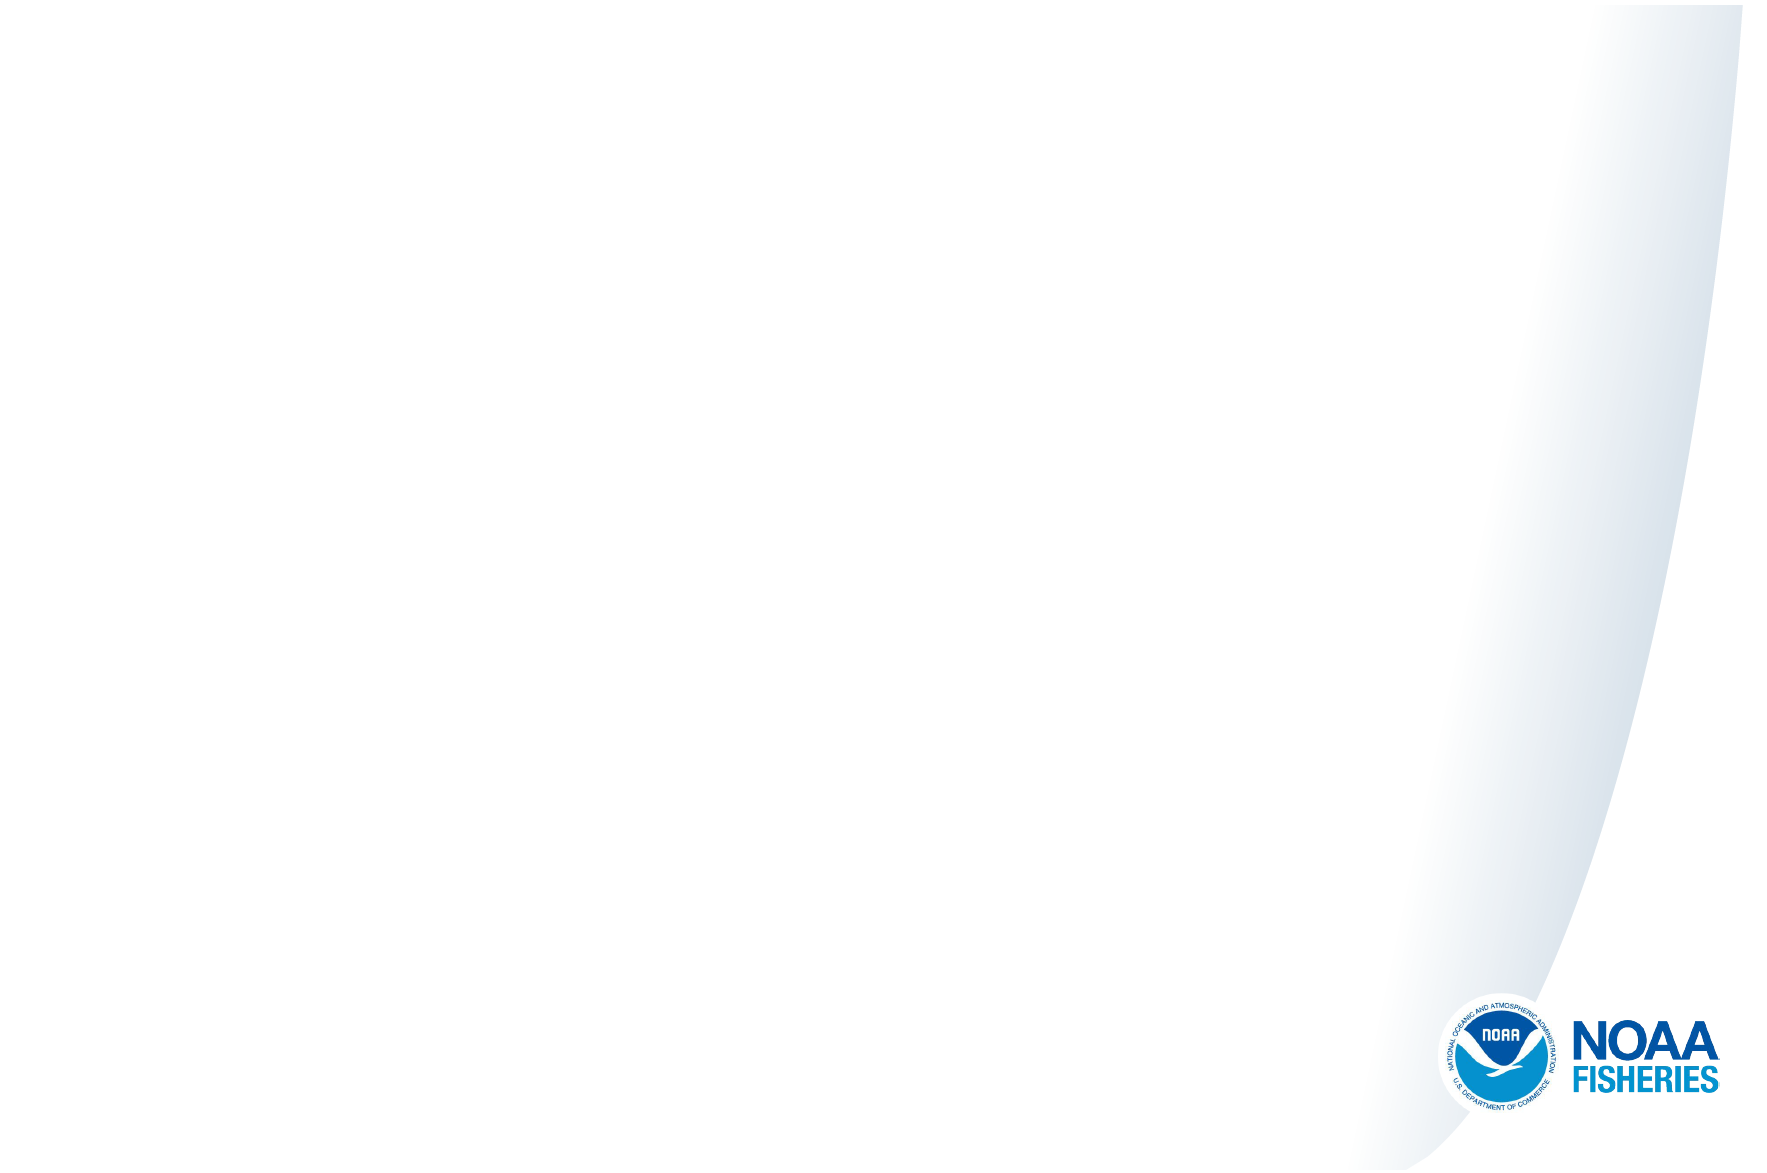
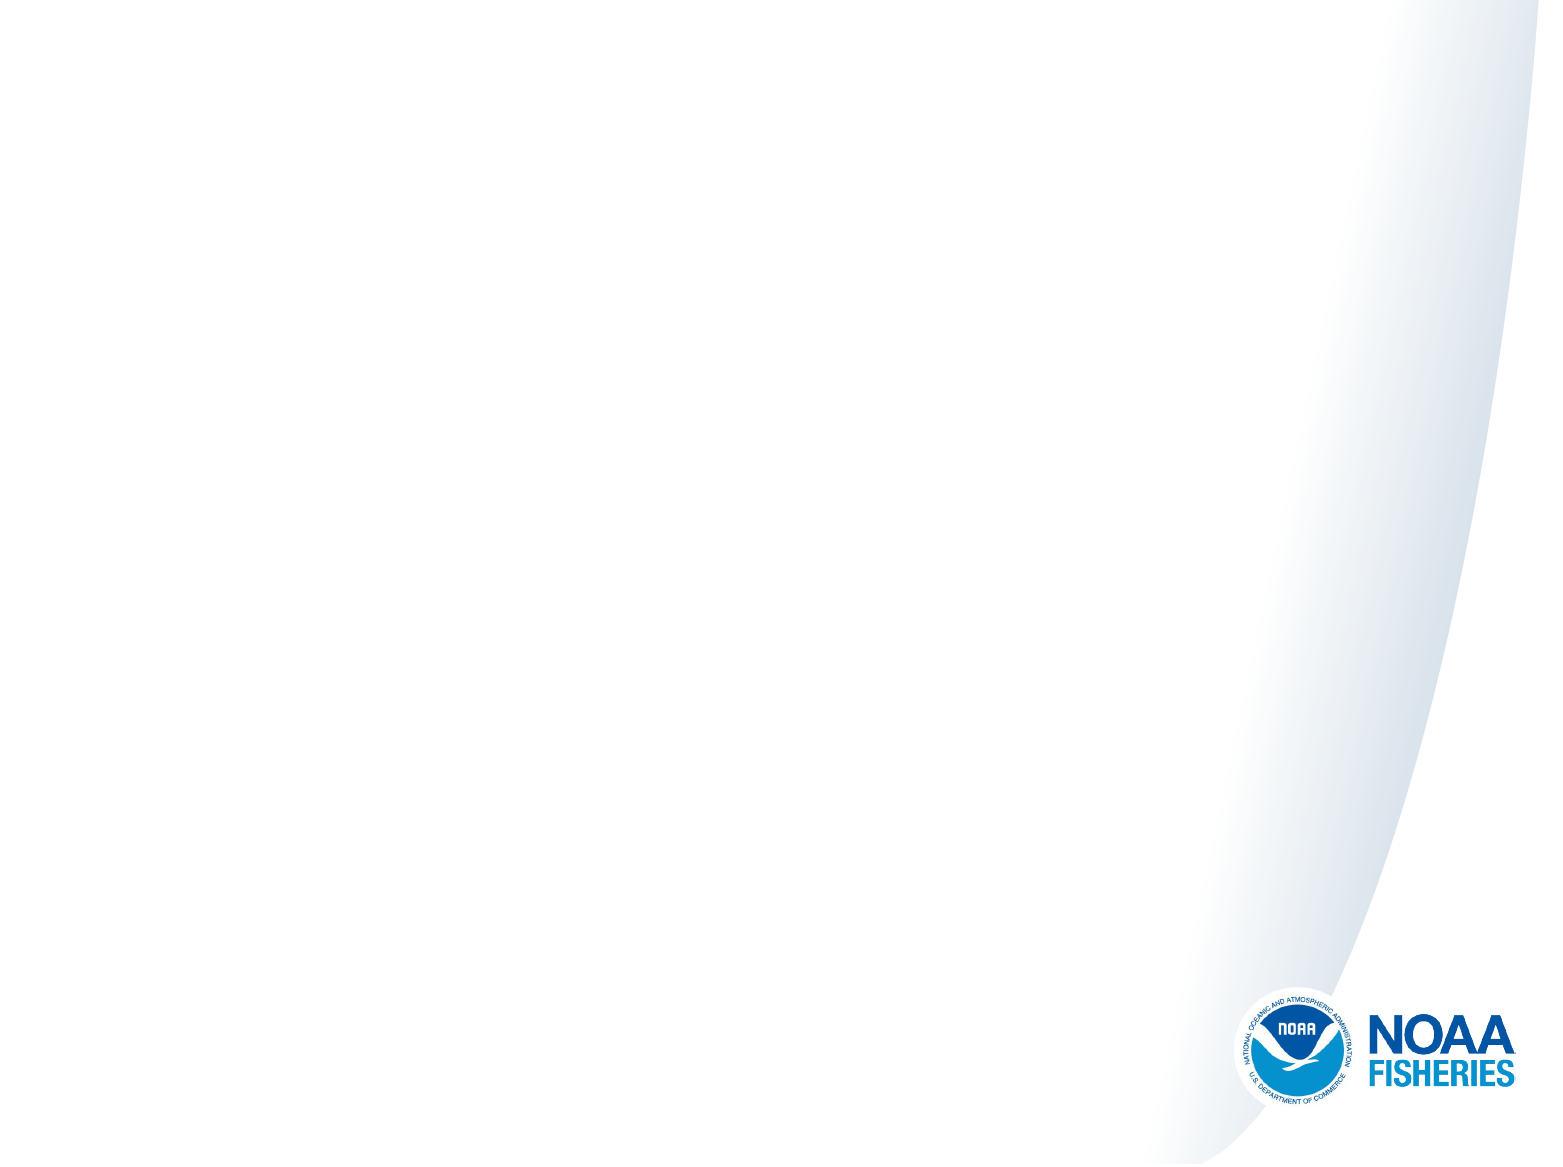
changed aspect ratio

Changed region(s): [[0.7985, 0.401, 0.9827, 0.9563], [0.952, 0.1542, 0.9827, 0.401]]

diff --git a/man/xaringan_template.html b/man/xaringan_template.html
@@ -44,7 +44,7 @@ r &lt;- 2 + 2
 ---
 class: middle
 background-image: url("static/slideteal.png")
-background-image-size: "940px 690px"
+background-image-size: "cover"
 
 # This is another background image you can use
 
@@ -62,6 +62,7 @@ The chakra comes from [remark.js](https://remarkjs.com), [**knitr**](https://yih
 <style data-target="print-only">@media screen {.remark-slide-container{display:block;}.remark-slide-scaler{box-shadow:none;}}</style>
 <script src="https://remarkjs.com/downloads/remark-latest.min.js"></script>
 <script>var slideshow = remark.create({
+"ratio": "4:3",
 "highlightStyle": "github",
 "highlightLines": true,
 "countIncrementalSlides": false,

diff --git a/man/xaringan-themer.css b/man/xaringan-themer.css
@@ -76,7 +76,7 @@ h1, h2, h3 {
   background-color: var(--background-color);
   font-size: 1rem;
   background-image: url(static/slideswoosh.PNG);
-  background-size: 930px 690px;
+  background-size: cover;
   padding: 16px 64px 16px 64px;
   width: 100%;
   height: 100%;
@@ -136,7 +136,7 @@ a, a > code {
 .title-slide {
   background-color: var(--title-slide-background-color);
   background-image: url("static/slideswooshver.png");
-  background-size: 930px 690px;
+  background-size: cover;
 }
 .title-slide .remark-slide-number {
   display: none;
